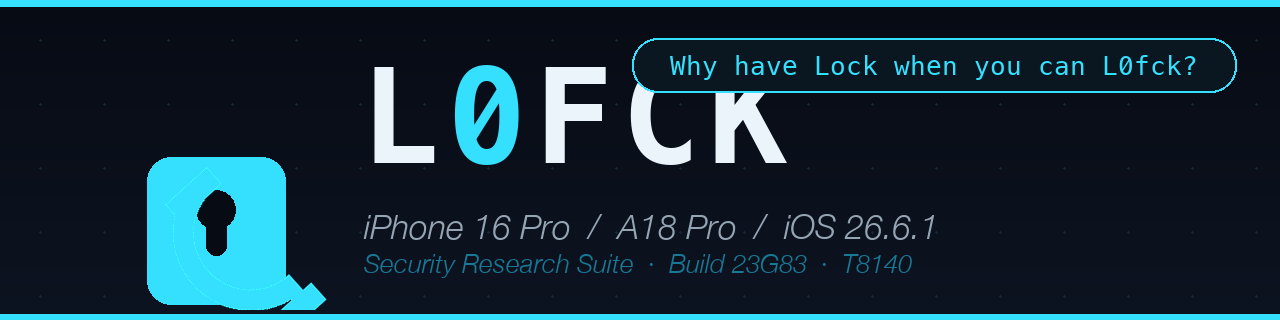
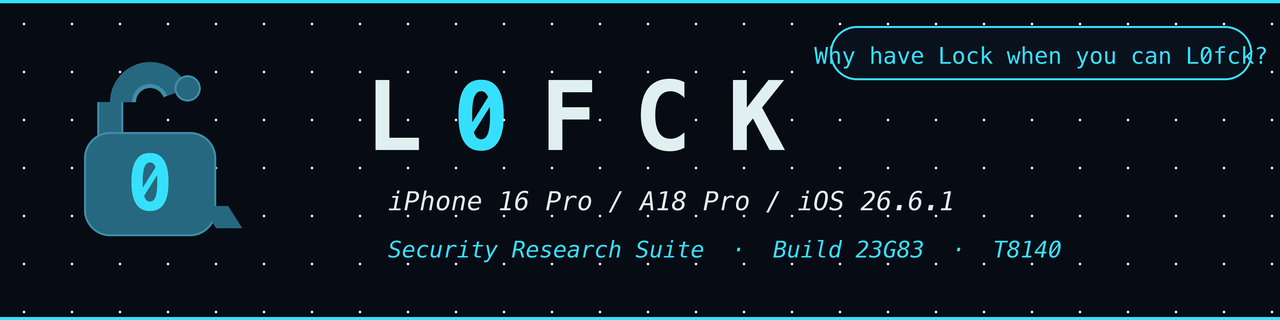
docs(README.md): Updated the readme

diff --git a/README.md b/README.md
@@ -1,18 +1,13 @@
-<div align="center">
-
-# `l0fck` — iPhone 16 Pro / A18 Pro / iOS 26.6.1 Dedicated Research Suite
+<img src="img/banner-hidden.png" alt="l0fck — Security Research Suite" width="100%">
+<br>
+<br>
 
 <br>
 
-<img src="img/banner.png" alt="l0fck — Security Research Suite" width="100%">
-
-<br>
-
-<p align="center"><strong><span style="font-size:26px">“ Why have <em>Lock</em> when you can <span style="color:#35E0FF">L0fck</span> ”</span></strong></p>
-
-<br>
-
-<img src="img/logo.png" alt="l0fck logo" width="160" height="160">
+<p align="center">
+  <img src="img/badge-krw.png" alt="Research Only" height="30">
+  <img src="img/badge-bypass.png" alt="Lab Tested" height="30">
+</p>
 
 <br>
 
@@ -718,7 +713,6 @@ and the refuted claim is marked **superseded**.
 
 ## Recent Changes
 
-- **Public branding + README title section (2026-10-12)**: README title section is now public-ready — hero banner, logo, the slogan citation (“Why have Lock when you can L0fck”), and a row of status shields (Research Only, Lab Tested, iOS 26.6.1·23G83, A18 Pro·T8140, Self-Test 22/22). New `img/` folder with `logo.png` (open padlock + wordmark), `banner.png` (title + slogan + specs), and 5 shield `badge-*.png`. All assets use the menu's bright-cyan accent (`start.sh` `CYAN`). A research-only / lab-tested disclaimer is shown under the title. No source behavior changed.
 - **RESEARCH/ reference folder + `l0fck-research` skill (2026-10-12)**: New `l0fck/RESEARCH/` folder (13 docs) is the canonical per-chain + per-finding reference — one `.md` per implemented chain (bypass-full, sovereign, neo-chain, setup-assistant, glyphgrift, restore-chain) and one per cross-cutting finding (kernel R/W hardening, 26.6.1 T8140 offsets, preboard/VUL 23 D1 dead-end, lockdown SSL bypass, activation ambit/mb2 gates/DFU close-out, zero-fake-success policy). Docs synthesize `PLAN/*.md` + `l0fck/src/**` + live A18 Pro results; refuted "final reports" are marked superseded. A new `l0fck-research` Kilo skill (at `../.agents/skills/l0fck-research/`) mandates reading the relevant RESEARCH doc before implementing changes to an existing chain or a new custom chain. README tree corrected to match source (`tools/`, `RESEARCH/`, `payloads/glyphgrift/`, `preboard_race.c`, `applemcc_exploit.c`, 5 GlyphGrift/KRW WebSheet probes, `payload-glyphgrift` target; kernel-offset count corrected to 68 `#define`). No source behavior changed; `./l0fck --test` 22/22 still green.
 - **Restore-Chain Phase 0 live result (A18 Pro, 2026-10-12) — A18 Pro close-out**: The `l0fck/tools/mb2_reachability.py` probe (RSD tunnel up, trusted session) confirms `com.apple.mobilebackup2.shim.remote` **is registered** on the A18 Pro RSD surface, but `StartService` returns **`ServiceProhibited`**. An A/B control (`tools/mb2_control_diag.py`) starting a spread of services over the identical path shows this is **not** mb2-specific and **not** a trust/transport failure: `lockdown.trusted`, `afc`, `notification_proxy` all start, while only the user-session anti-theft services (`mobilebackup2`, `springboardservices`, `installation_proxy`) are `ServiceProhibited` — the device's own anti-theft / user-service gate on a **locked, Find My ON** device, enforced at StartService (earlier than the `MBErrorDomain/211` restore-time gate). Because the device is locked and Find My cannot be turned off from the host (the only Find My off path, Vol Down + Power → "Turn off", only deactivates localization at shutdown and powers the device off), **this gate cannot be cleared from the host side**. Outcome: chain remains **A13-class only** on this host; A18 Pro marked "mb2 present on RSD but `ServiceProhibited` at StartService on a locked + Find My device." Phase 1 (CoreDevice mb2 sidecar + l0fck C rewiring) is **not built** — it would hit `ServiceProhibited` at service start. Transport is proven working (RSD up, trusted, AFC live); the block is the device's own anti-theft gate. Full detail: `RESEARCH/IMPORTANT TO CHECK/research-2026-09-16-afc-26.6.1.md` (Session 4 addendum) + `l0fck/tools/mb2_reachability_<date>_<time>.txt`.
 - **Restore-Chain transport split + CoreDevice Phase 0 probe (A18 Pro)**: Live A18 Pro (UDID `00008140-0011285A20E3C01C`, iOS 26.6.1, paired host) shows `com.apple.mobilebackup2` is **not registered** on the legacy-lockdown surface — `idevicebackup2` reaches TLS + `notification_proxy` + `afc`, then `StartService com.apple.mobilebackup2` fails `InvalidService`. This is a device-side **registration gate**, not a pairing/SSL bug (host is paired). **Red-herring correction**: l0fck's earlier `[lockdown=-23]` came from a session-less `lockdownd_client_new` probe (returns -23 by construction); the real gate is `InvalidService` (`LOCKDOWN_E_INVALID_SERVICE`, -27) surfaced as `-256` (`SERVICE_E_UNKNOWN_ERROR`) at the mb2 layer. `com.apple.afc` remains live on the A18 Pro, so the stage-4 AFC hard gate and stages 5–6 are unaffected. Since libimobiledevice has no CoreDevice/RSD transport, the A18 Pro path targets the **CoreDevice RSD transport** (service `com.apple.mobilebackup2.shim.remote`) via a `pymobiledevice3` sidecar. New `l0fck/tools/mb2_reachability.py` (read-only RSD probe → `REACHABLE` / `NOT_IN_RSD_LIST` / `CONNECT_FAILED`; venv `l0fck/tools/.venv`) gates Phase 1. Legacy C mb2 path (`src/backup/mb2_restore.c`) is kept untouched for A13-class devices; transport is selected by target. Full detail: `RESEARCH/IMPORTANT TO CHECK/research-2026-09-16-afc-26.6.1.md` (Session 4 addendum).
